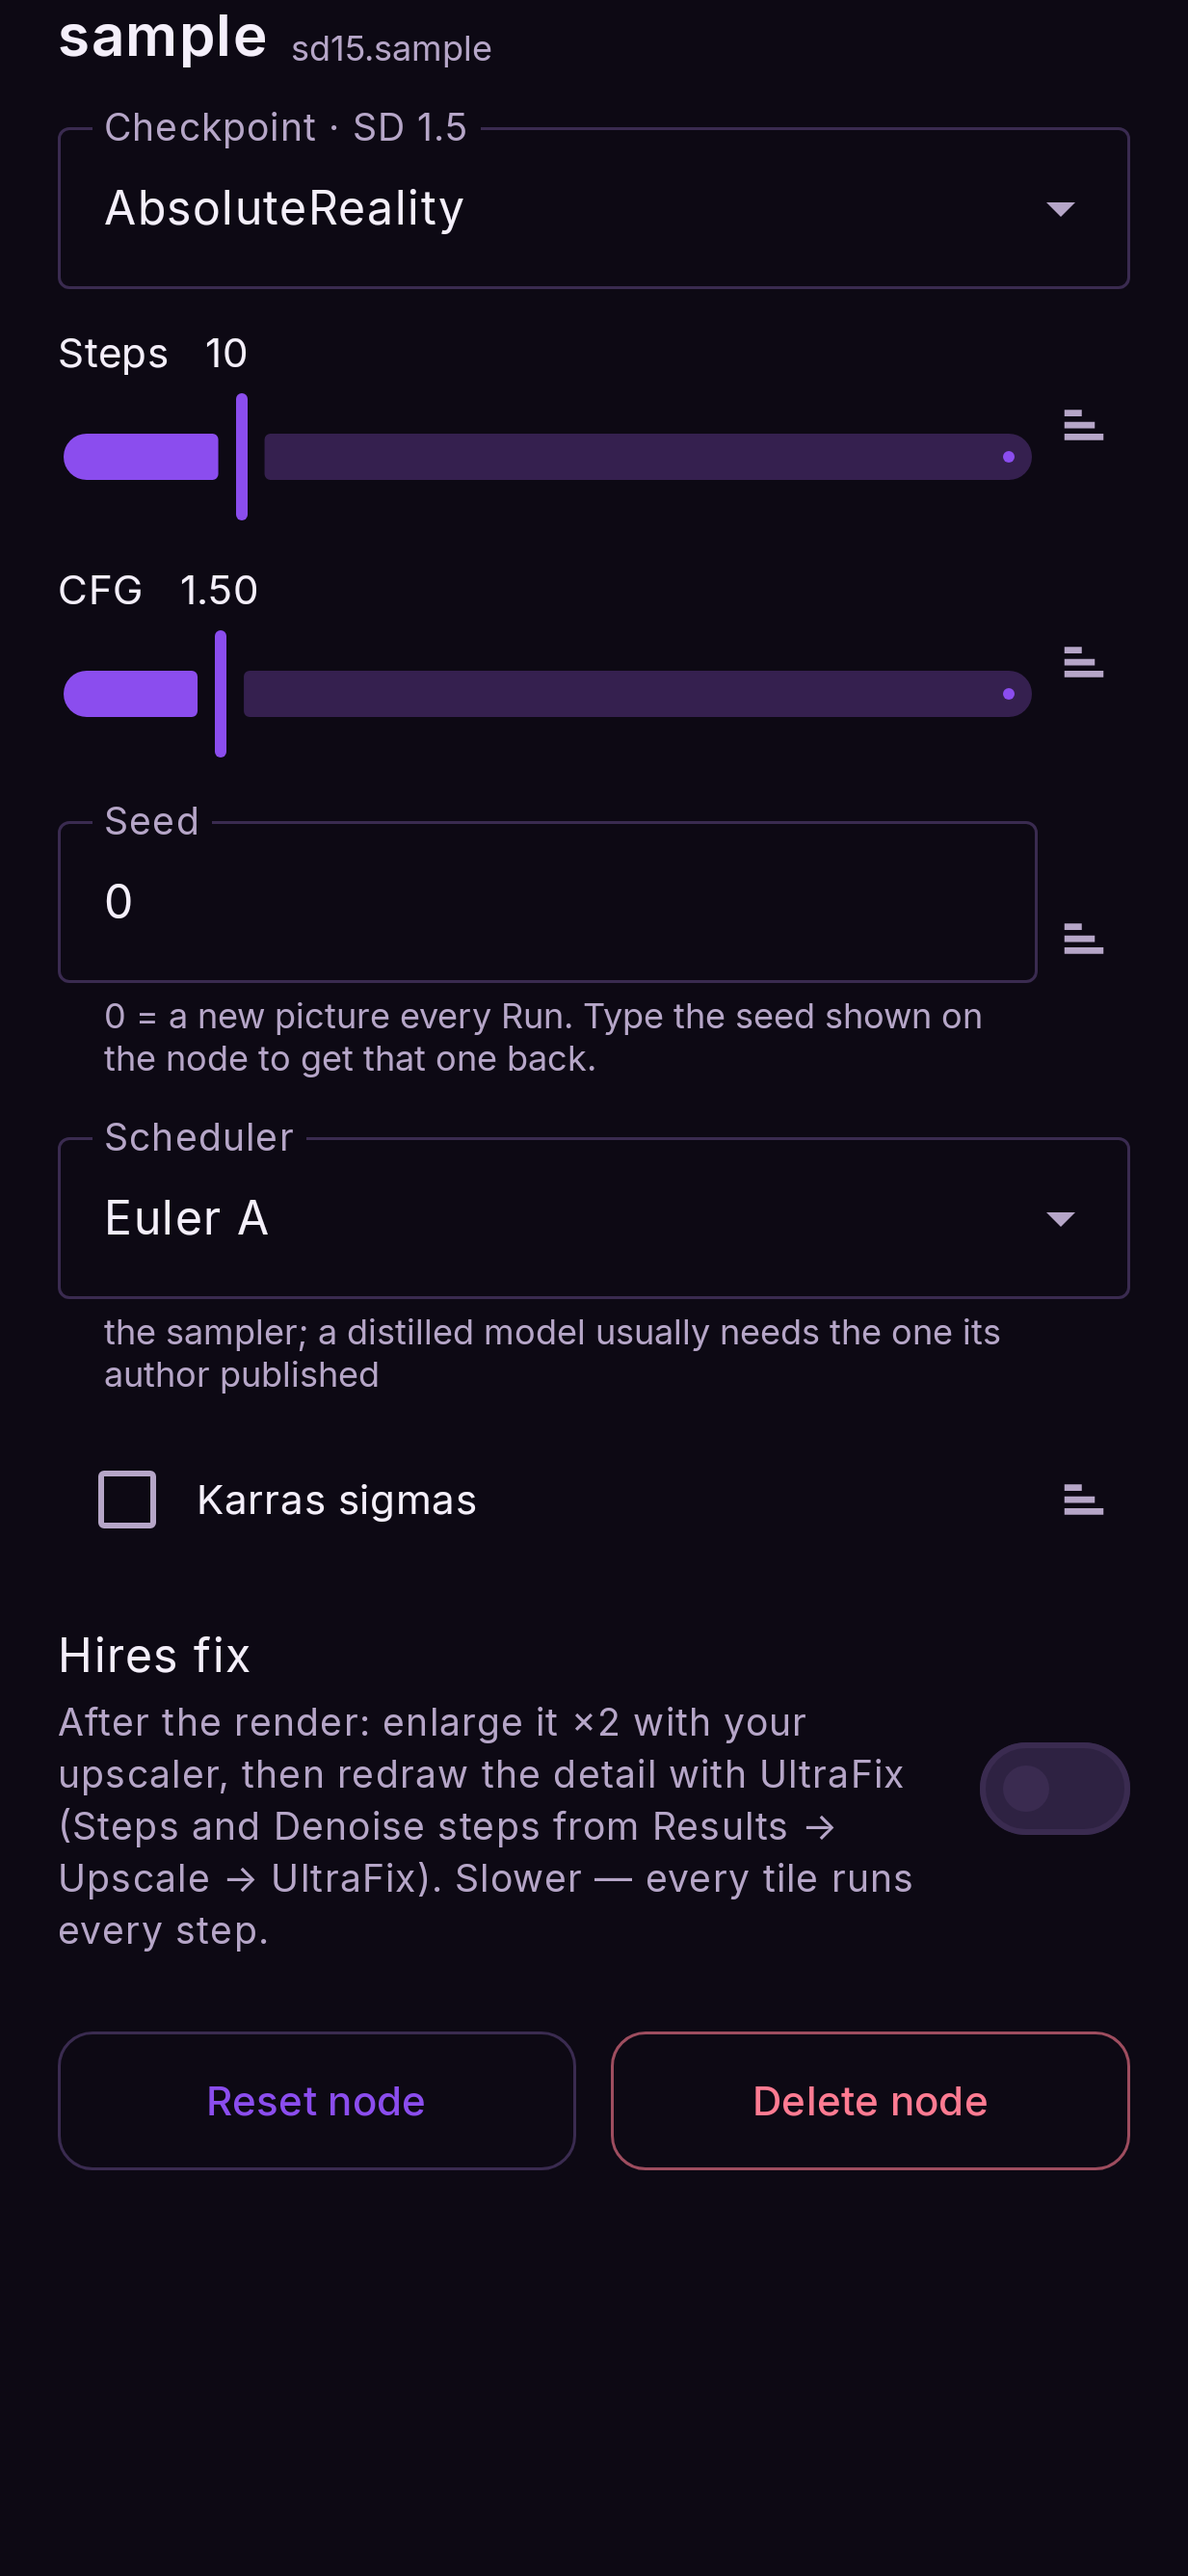
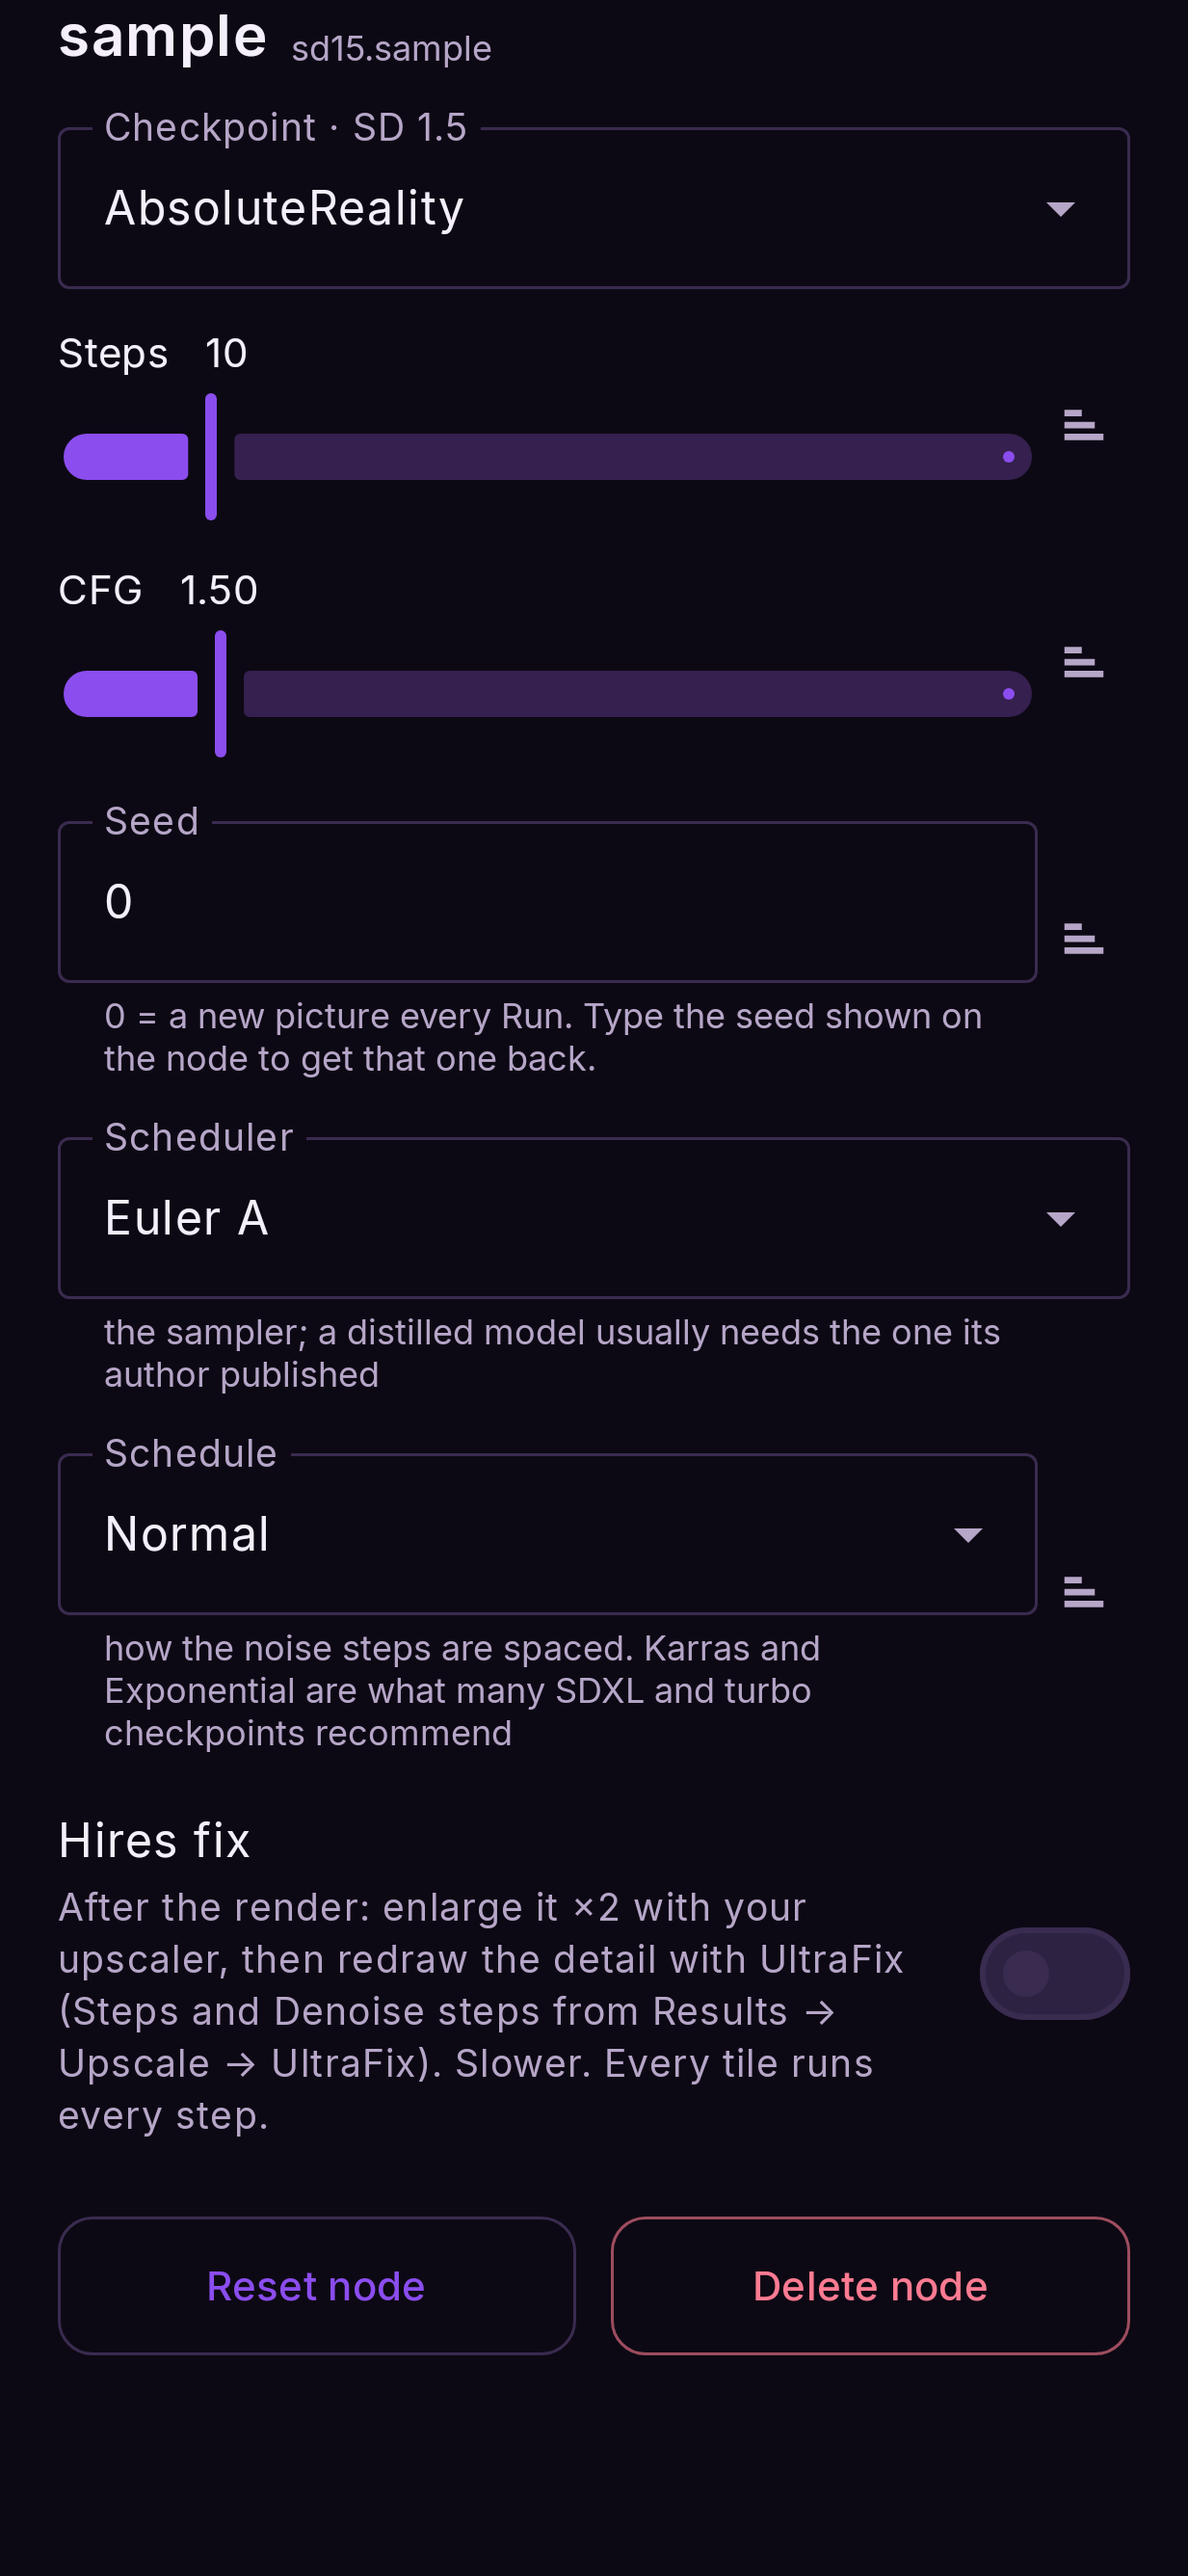
README/guide: samplers and schedules, the Models + import, merged Anima page, <lora: autocomplete, Support
Claude-Session: https://claude.ai/code/session_014FMrj7WqKCQukdhLDicn9n

diff --git a/README.md b/README.md
@@ -42,7 +42,7 @@ and it downloads on first use; the app shows which ones your phone can run.
 ### Models
 - **36 checkpoints in the catalogue**: SD 1.5, SD 1.5 Swap, SDXL, SDXL Swap, Anima and the DiT family, each downloaded on demand.
 - **FLUX.2 Klein 4B / 9B, Z-Image Turbo, Qwen Image 2.1, Krea 2 Turbo, Anima Turbo 1.1**: any size from 512 to 2048 in 64 px steps, no reload to change it.
-- **Bring your own**: import a converted checkpoint, convert one on the phone with [npuforge](https://github.com/AbrahamPaulJ/npuforge), or drop in a FLUX.2 / Z-Image / Krea 2 / Anima `.safetensors` or `.gguf` fine-tune as it is.
+- **Bring your own**: one **+** on the Models page takes any of them and works out what the file is: a converted checkpoint zip, a FLUX.2 / Z-Image / Krea 2 / Anima `.safetensors` or `.gguf` fine-tune used as it is, or an upscaler. Or convert one on the phone with [npuforge](https://github.com/AbrahamPaulJ/npuforge).
 - **Upscalers**: RealESRGAN anime and 4x UltraSharp V2 Lite, or your own; a checkbox on the output node.
 - **A real inpainting model**: AbsoluteReality Inpaint sees the hole it fills.
 
@@ -64,7 +64,8 @@ and it downloads on first use; the app shows which ones your phone can run.
 - **A prompt from a picture**: describe any picture on the canvas or in your gallery: **Short** or **Detailed** sentences (Florence-2 PromptGen), or **Tags** in Danbooru style for anime models (WD tagger).
 - **A tag toolbar**: while you type: make the tag under the cursor heavier or lighter, delete it, add one after it, undo, redo.
 - **Tag autocomplete**: matching Danbooru tags under the prompt box as you type, most used first; one tap downloads the list, or import your own CSV, plus an optional translation CSV to search in your own language.
-- **`<lora:name:0.8>` in a prompt**: a prompt pasted from CivitAI applies the LoRAs it names (when you have them) and the tags never reach the text encoder.
+- **`<lora:name:0.8>` in a prompt**: a prompt pasted from CivitAI applies the LoRAs it names (when you have them) and the tags never reach the text encoder. Type `<lora:` and your LoRAs are offered as chips, the strength left selected to type over.
+- **Samplers**: DPM++ 2M, 2M SDE, 3M and 3M SDE, Euler, Euler A and LCM with a Normal, Karras or Exponential schedule on SD 1.5 and SDXL; Euler, Heun, DPM++ 2M, ER-SDE, Res Multistep and more on the DiT models, so a checkpoint runs the way its author intended.
 - **Translate**: a Russian or Chinese prompt to English, offline (Firefox Translations), keeping weights like `(long hair:1.2)`.
 
 ### Your phone, your files

diff --git a/guide/pages/models/bring-your-own.md b/guide/pages/models/bring-your-own.md
@@ -1,7 +1,12 @@
 # Bring your own model
 
-Beyond the catalogue, you can use models you converted or downloaded yourself. How depends on
-the family.
+Beyond the catalogue, you can use models you converted or downloaded yourself.
+
+**To import anything:** tap **+** next to the **Models** title, optionally type a name, tap
+**Choose a file** and pick it. The app reads the file and works out what it is: a converted
+`.zip`, a checkpoint `.safetensors` or `.gguf` (and which model it is for), or an upscaler `.bin`.
+It asks only when a checkpoint does not say which model it was made for. A LoRA or an embedding
+picked by mistake is named, with where to add it instead.
 
 ## SD 1.5, SDXL and Anima: a converted zip
 
@@ -19,8 +24,7 @@ cannot be used directly. It has to be converted first. Two ways:
   v-prediction packages, which Nightmare enables automatically.
 - **A zip made for LocalDream**: converted models shared for LocalDream import unchanged.
 
-To import: open the family's page in **Models** (**Family ▾**), tap **Import**, choose the `.zip` and give it a
-name. The app reads which family it is from the files inside.
+Import the `.zip` with **+** (above). The app reads which family it is from the files inside.
 
 If a package contains LocalDream's empty `V_PRED` marker, Nightmare launches the
 native backend in v-prediction mode. Packages without it keep the existing epsilon
@@ -31,12 +35,12 @@ behavior.
 These build their model at load time from ordinary weights, so **a fine-tune from CivitAI or
 Hugging Face imports as-is**. No conversion, no PC. Both `.safetensors` and `.gguf` work.
 
-1. In Models, open **Family ▾ → FLUX.2**, **Z-Image**, **Krea 2** or **Anima DiT**.
-2. Tap **Import** and pick the file.
-3. Name it.
+Import the file with **+** (above). The app reads the file's tensor names to tell Anima, FLUX.2
+Klein (4B or 9B), Z-Image and Krea 2 apart, so an Anima file from CivitAI lands on the **Anima**
+page without you choosing anything.
 
-The app reads the file's tensor names: a Klein 9B fine-tune is recognised as 9B, and a file
-picked on the wrong family's page is refused with the family it belongs to.
+On **Family ▾ → Anima**, both kinds of Anima are listed: first the ones on the DiT engine (any
+Anima file from CivitAI), then the ones converted for the NPU (zip).
 
 - **Klein 4B and Z-Image** share the text encoder, VAE and tokenizer with the family's model, so
   an import costs only its own weights (plus up to 2.6 GB once, if you have neither family).

diff --git a/guide/pages/reference/nodes.md b/guide/pages/reference/nodes.md
@@ -84,10 +84,10 @@ The palette card is **Image** with a chip per family: **SD 1.5**, **SD 1.5 Swap*
 | **Steps** | all | Refinement passes. Opens on the model's own recommended value |
 | **CFG** | all | How strictly the prompt is followed. FLUX.2, Z-Image and Qwen are made for **1**: above 1 the negative prompt is read, but the picture burns quickly |
 | **Seed** | all | `0` = a new picture every Run. Type a seed shown on a node to get that one back |
-| **Scheduler** | all | The sampling method; a distilled model usually wants its author's choice. DiT models always use Euler |
+| **Scheduler** | all | The sampling method; a distilled model usually wants its author's choice. SD 1.5 / SDXL: DPM++ 2M, 2M SDE, 3M, 3M SDE, Euler, Euler A, LCM. DiT models: Euler (default), Euler A, Heun, DPM++ 2M, DPM++ 2M SDE, ER-SDE, Res Multistep, iPNDM, LCM. Anima: Euler, Euler A |
 | **Hires fix** | SD 1.5, SDXL (not inpaint) | After the render, enlarge it ×2 with your first upscaler and redraw the detail with [UltraFix](results.md#ultrafix): one Run, a picture twice the size. Uses UltraFix's last Steps / Denoise steps. On the Snapdragon 8 Elite: SD 1.5 512 → 1024 about 16 s in all, SDXL 1024 → 2048 about 2½ min. Needs an upscaler installed; without one the render is kept and a warning says why |
 | **Enlarge ×2** | every Image node without Hires fix: FLUX.2, Z-Image, Qwen, Krea, Anima, the Swap models and every inpaint | After the render, enlarge it ×2 with your first upscaler, nothing redrawn. The node's own picture is the enlarged one, so wire it into an inpaint (with **Only masked**) to fix faces at the larger size. E.g. Z-Image text to image → enlarge → an inpaint over the face. Needs an upscaler installed; without one the render is kept and a warning says why |
-| **Karras sigmas** | SD 1.5, SDXL, Anima | An alternative noise schedule (not with LCM) |
+| **Schedule** | SD 1.5, SDXL | How the noise steps are spaced: Normal, Karras or Exponential (not with LCM) |
 | **Denoise** | with an image | How much of the photo is replaced. 0 keeps it, 1 replaces it. Image to image opens at 0.65, Image edit at 1.0 |
 | **Resolution** | SD 1.5 | The sizes this model supports. A new size reloads the model on the next Run |
 | **Shape** | SDXL, Anima | Crops the fixed 1024 square to an aspect. No reload |

diff --git a/guide/pages/flows/text-to-image.md b/guide/pages/flows/text-to-image.md
@@ -47,8 +47,8 @@ Tap the **Text to image** node:
 | **Steps** | How many refinement passes | More is slower; each model opens on the number its author recommends |
 | **CFG** | How strictly the prompt is followed | Too high burns colours; turbo/distilled models want ~1–2 |
 | **Seed** | The starting noise | `0` = a new picture every Run. Type a seed shown on a node to get that picture back |
-| **Scheduler** | The sampling method | A distilled model usually needs the one its author published |
-| **Karras sigmas** | A different noise schedule | Try it for smoother detail on SD models |
+| **Scheduler** | The sampling method. SD 1.5 and SDXL: DPM++ 2M, DPM++ 2M SDE, DPM++ 3M, DPM++ 3M SDE, Euler, Euler A, LCM. FLUX.2, Z-Image, Qwen Image, Krea 2 and Anima DiT: Euler, Euler A, Heun, DPM++ 2M, DPM++ 2M SDE, ER-SDE, Res Multistep, iPNDM, LCM | Use what the model's author recommends; turbo models usually want Euler (DiT) or LCM |
+| **Schedule** | How the noise steps are spaced: **Normal**, **Karras** or **Exponential** (SD 1.5 and SDXL; not with LCM) | Many turbo and hyper SDXL models recommend Exponential |
 | **Resolution** / **Shape** / **Width, Height** | The picture's size | Depends on the family. Below |
 
 ### Size, per family

diff --git a/guide/pages/models/loras.md b/guide/pages/models/loras.md
@@ -80,6 +80,11 @@ top of the node's LoRA list. The tag wins if both name the same one. A tag for a
 have, or any tag on a model that takes no LoRAs, is skipped and the run log says so. Tags do not
 count toward the prompt's token limit.
 
+Type `<lora:` in a prompt and your installed LoRAs appear as chips under the box, filtered as you
+type: the ones already ticked on the node it feeds come first, then the ones made for its model.
+Tap one and it is written as `<lora:name:1.0>` with `1.0` selected, so you can type the strength
+straight over it.
+
 ### Sort, filter and favourites
 
 With two or more LoRAs, the list has a **sort** menu. **Name**, **Newest**, **Most used** (how

diff --git a/guide/pages/models/index.md b/guide/pages/models/index.md
@@ -21,6 +21,9 @@ which phones can run it; inside a family, models differ in style.
 | **Anima DiT** | Turbo 1.1 | 3.2 GB (4.2 GB download, converted on the phone) | 512–2048 | Anime; about a minute at 1024 | 8 Gen 3+ (alpha on 8 Gen 3) |
 | **Krea 2** | Turbo | 9.5 GB | 512–2048 | Text to image only | 16 GB RAM, and 8 Elite+ (alpha on 8 Gen 3) |
 
+Anima and Anima DiT share one page in **Family ▾ → Anima**: the DiT ones first, then the ones
+converted for the NPU.
+
 Besides picture models, **Models** also holds:
 
 - **Upscalers**: small models that enlarge a picture. [Upscale](../flows/upscale.md)

diff --git a/guide/pages/start/canvas.md b/guide/pages/start/canvas.md
@@ -55,6 +55,7 @@ another one from the sidebar replaces the sheet.
 | **Model** | The model this flow uses and its state. **Idle**, **Loading** or **Loaded**: and the free memory |
 | **Settings** | [Settings](../reference/settings.md) |
 | **Device** | This phone's chip and NPU. [Install](install.md#check-what-your-phone-can-run) |
+| **Support** | **Buy me a coffee**: why donations help, the Buy Me a Coffee link, and the author's other two apps (npuforge and FaceFusion Mobile) |
 
 <figure markdown>
   ![The sidebar](../img/sidebar.png){ .screen }

diff --git a/guide/pages/flows/upscale.md b/guide/pages/flows/upscale.md
@@ -14,7 +14,8 @@ model.*
 | **RealESRGAN x4plus anime** | Drawings, anime, flat colour |
 | **4x UltraSharp V2 Lite** | Photos |
 
-You can also import your own converted upscaler (a `.bin` file) there.
+You can also import your own converted upscaler (a `.bin` file) with **+** next to the
+**Models** title.
 
 ## Steps
 
